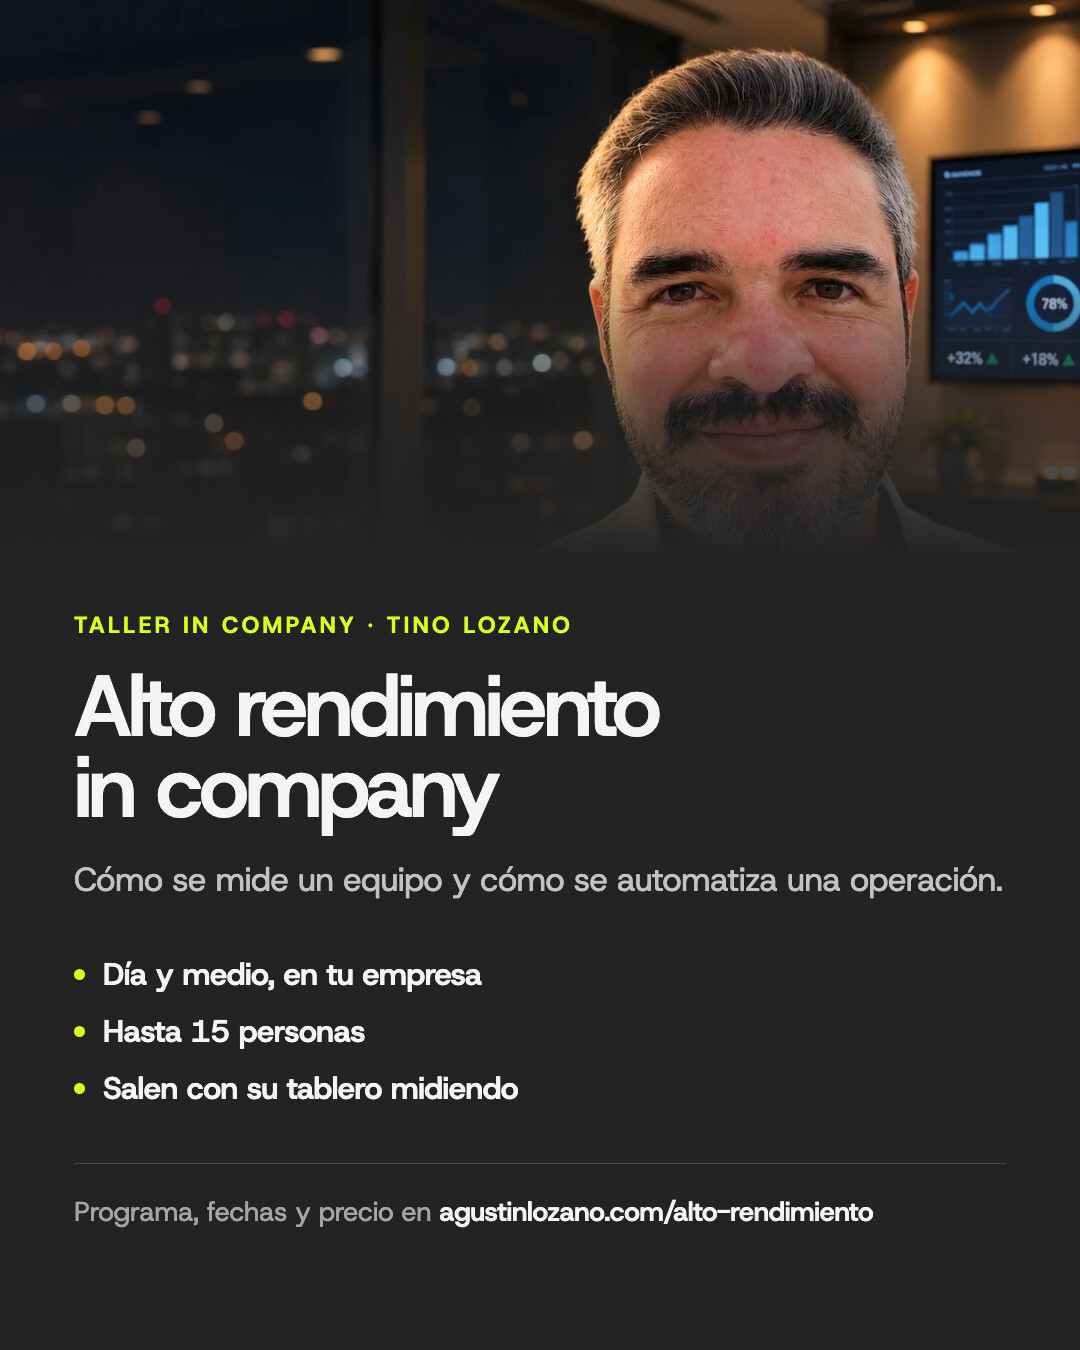
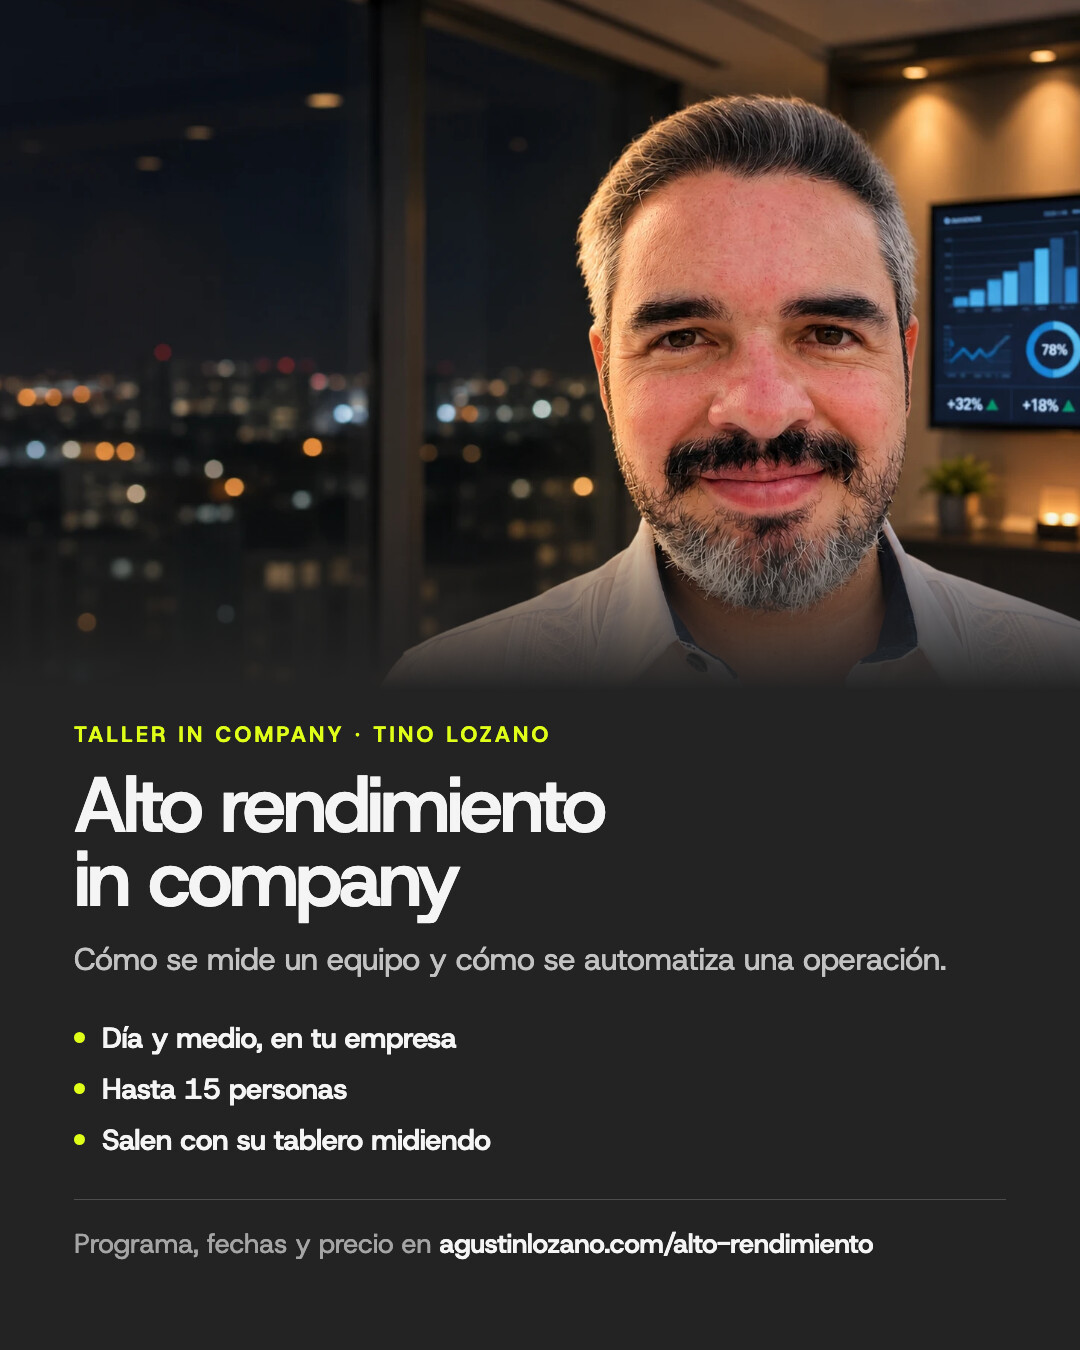
fix(taller): el degradado tapaba la cara en la imagen de WhatsApp
La foto sube de 560 a 690 px y el degradado solo muerde el ultimo tramo,
debajo de los hombros, en lugar de empezar a media cara. El bloque de
texto se compacta para caber en lo que queda.

diff --git a/_og-vertical.html b/_og-vertical.html
@@ -6,17 +6,17 @@
 @font-face{font-family:'Host Grotesk';font-style:normal;font-weight:300 800;src:url(https://fonts.gstatic.com/s/hostgrotesk/v5/co3BmWBnlCJ3U42vbbfdwMjZpFjm.woff2) format('woff2')}
 *{box-sizing:border-box;margin:0}
 body{width:1080px;height:1350px;overflow:hidden;font-family:'Host Grotesk',Arial,sans-serif;background:#232323;color:#f4f4f4;display:flex;flex-direction:column}
-.foto{height:560px;flex:none;position:relative;overflow:hidden}
-.foto img{width:100%;height:100%;object-fit:cover;object-position:72% 30%}
-.foto::after{content:"";position:absolute;inset:0;background:linear-gradient(180deg,transparent 45%,rgba(35,35,35,.75) 78%,#232323 100%)}
-.txt{flex:1;padding:0 74px 70px;display:flex;flex-direction:column;justify-content:center}
-.eyebrow{font-size:23px;font-weight:700;letter-spacing:.15em;text-transform:uppercase;color:#dfff18;margin-bottom:26px}
-h1{font-size:86px;font-weight:600;line-height:.94;letter-spacing:-.045em}
-.sub{margin-top:30px;font-size:33px;line-height:1.32;letter-spacing:-.015em;color:rgba(244,244,244,.76)}
-.datos{display:flex;flex-direction:column;gap:16px;margin-top:52px}
-.fila{display:flex;align-items:center;gap:18px;font-size:31px;font-weight:600;letter-spacing:-.015em}
+.foto{height:690px;flex:none;position:relative;overflow:hidden}
+.foto img{width:100%;height:100%;object-fit:cover;object-position:70% 24%}
+.foto::after{content:"";position:absolute;inset:0;background:linear-gradient(180deg,transparent 74%,rgba(35,35,35,.6) 89%,#232323 100%)}
+.txt{flex:1;padding:0 74px 58px;display:flex;flex-direction:column;justify-content:center}
+.eyebrow{font-size:22px;font-weight:700;letter-spacing:.15em;text-transform:uppercase;color:#dfff18;margin-bottom:20px}
+h1{font-size:78px;font-weight:600;line-height:.94;letter-spacing:-.045em}
+.sub{margin-top:24px;font-size:31px;line-height:1.32;letter-spacing:-.015em;color:rgba(244,244,244,.76)}
+.datos{display:flex;flex-direction:column;gap:13px;margin-top:38px}
+.fila{display:flex;align-items:center;gap:17px;font-size:29px;font-weight:600;letter-spacing:-.015em}
 .pt{width:11px;height:11px;flex:none;border-radius:50%;background:#dfff18}
-.pie{margin-top:54px;padding-top:30px;border-top:1px solid rgba(244,244,244,.2);font-size:27px;letter-spacing:-.01em;color:rgba(244,244,244,.62)}
+.pie{margin-top:40px;padding-top:26px;border-top:1px solid rgba(244,244,244,.2);font-size:27px;letter-spacing:-.01em;color:rgba(244,244,244,.62)}
 .pie b{color:#f4f4f4;font-weight:600}
 </style></head>
 <body>
